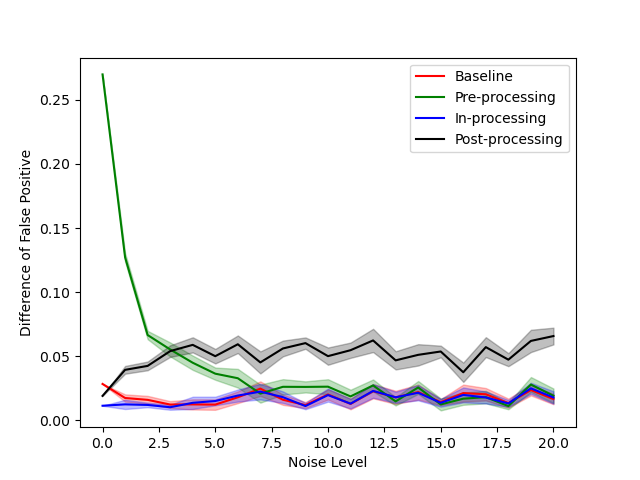
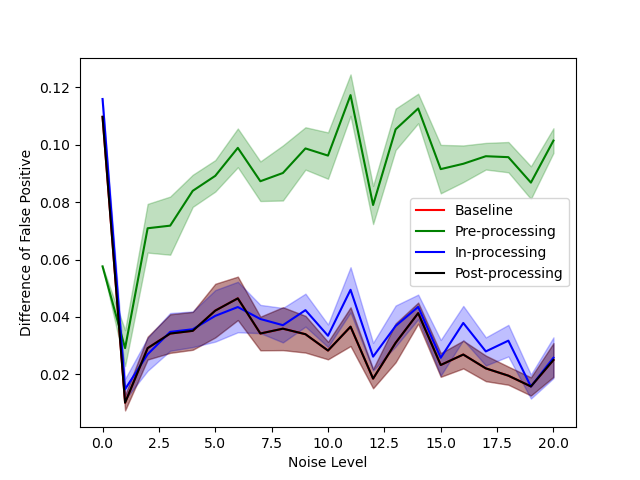
Correct baseline model for DTC
run analysis

diff --git a/robust_metric/RobustMetric.py b/robust_metric/RobustMetric.py
@@ -64,7 +64,7 @@ class RobustMetric:
 
         elif model_type == 'DTC':
             self.model_type = 'Decision Tree Classifier (DTC)'
-            self.model = SGDClassifier
+            self.model = DecisionTreeClassifier
 
         # define fairness constraint to be used
         self.fairness_constraint = 'demographic_parity'
@@ -170,8 +170,9 @@ class RobustMetric:
             self.baseline_model = self.model(solver='lbfgs', alpha=1e-5, max_iter=self.max_iter,
                                              hidden_layer_sizes=(32, 16, 8, 4, 2), random_state=123)
 
-        elif self.model_type == 'Support Vector Classification (SVC)' or 'Logistic Regression (LR)' or \
-                'Stochastic Gradient Descent (SGD)':
+        elif self.model_type == 'Support Vector Classification (SVC)' or \
+                self.model_type == 'Logistic Regression (LR)' or \
+                self.model_type == 'Stochastic Gradient Descent (SGD)':
             self.baseline_model = self.model(max_iter=self.max_iter)
 
         elif self.model_type == 'Decision Tree Classifier (DTC)':
@@ -215,8 +216,9 @@ class RobustMetric:
             self.preprocessing_model = self.model(solver='lbfgs', alpha=1e-5, hidden_layer_sizes=(32, 16, 8, 4, 2),
                                                   max_iter=self.max_iter, random_state=123)
 
-        elif self.model_type == 'Support Vector Classification (SVC)' or 'Logistic Regression (LR)' or \
-                'Stochastic Gradient Descent (SGD)':
+        elif self.model_type == 'Support Vector Classification (SVC)' or \
+                self.model_type == 'Logistic Regression (LR)' or \
+                self.model_type == 'Stochastic Gradient Descent (SGD)':
             self.preprocessing_model = self.model(max_iter=self.max_iter)
 
         elif self.model_type == 'Decision Tree Classifier (DTC)':
@@ -252,8 +254,9 @@ class RobustMetric:
                                                             constraints=self.fairness_constraint_func,
                                                             eps=eps, nu=nu, max_iter=50)
 
-        elif self.model_type == 'Support Vector Classification (SVC)' or 'Logistic Regression (LR)' or \
-                'Stochastic Gradient Descent (SGD)':
+        elif self.model_type == 'Support Vector Classification (SVC)' or \
+                self.model_type == 'Logistic Regression (LR)' or \
+                self.model_type == 'Stochastic Gradient Descent (SGD)':
             self.inprocessing_model = ExponentiatedGradient(self.model(max_iter=self.max_iter),
                                                             constraints=self.fairness_constraint_func,
                                                             eps=eps, nu=nu, max_iter=50)

diff --git a/main.py b/main.py
@@ -53,8 +53,11 @@ if __name__ == '__main__':
         (data, target) = fetch_bank_marketing(return_X_y=True, as_frame=True)
         sens = 'V3'
 
+    # levels = np.arange(1, args.max_noise + 1)
+    levels = np.arange(0.01, 7.51, 0.01)
+
     test = RobustMetric(data=data, target=target, sens=sens, max_iter=args.model_iters, model_type=args.model_type,
-                        fairness_constraint=args.train_constraint, noise_level=np.arange(1, args.max_noise + 1),
+                        fairness_constraint=args.train_constraint, noise_level=levels,
                         noise_iter=args.noise_iters)
     test.split_data()
 
@@ -78,5 +81,5 @@ if __name__ == '__main__':
 
     test = np.load(directory + '.npy')
 
-    plot_data.plot_data(test, np.arange(1, args.max_noise + 1), directory + '_figure', save=True,
+    plot_data.plot_data(test, levels, directory + '_figure', save=True,
                         x_label='Noise Level', y_label=full_constraints[args.train_constraint])
